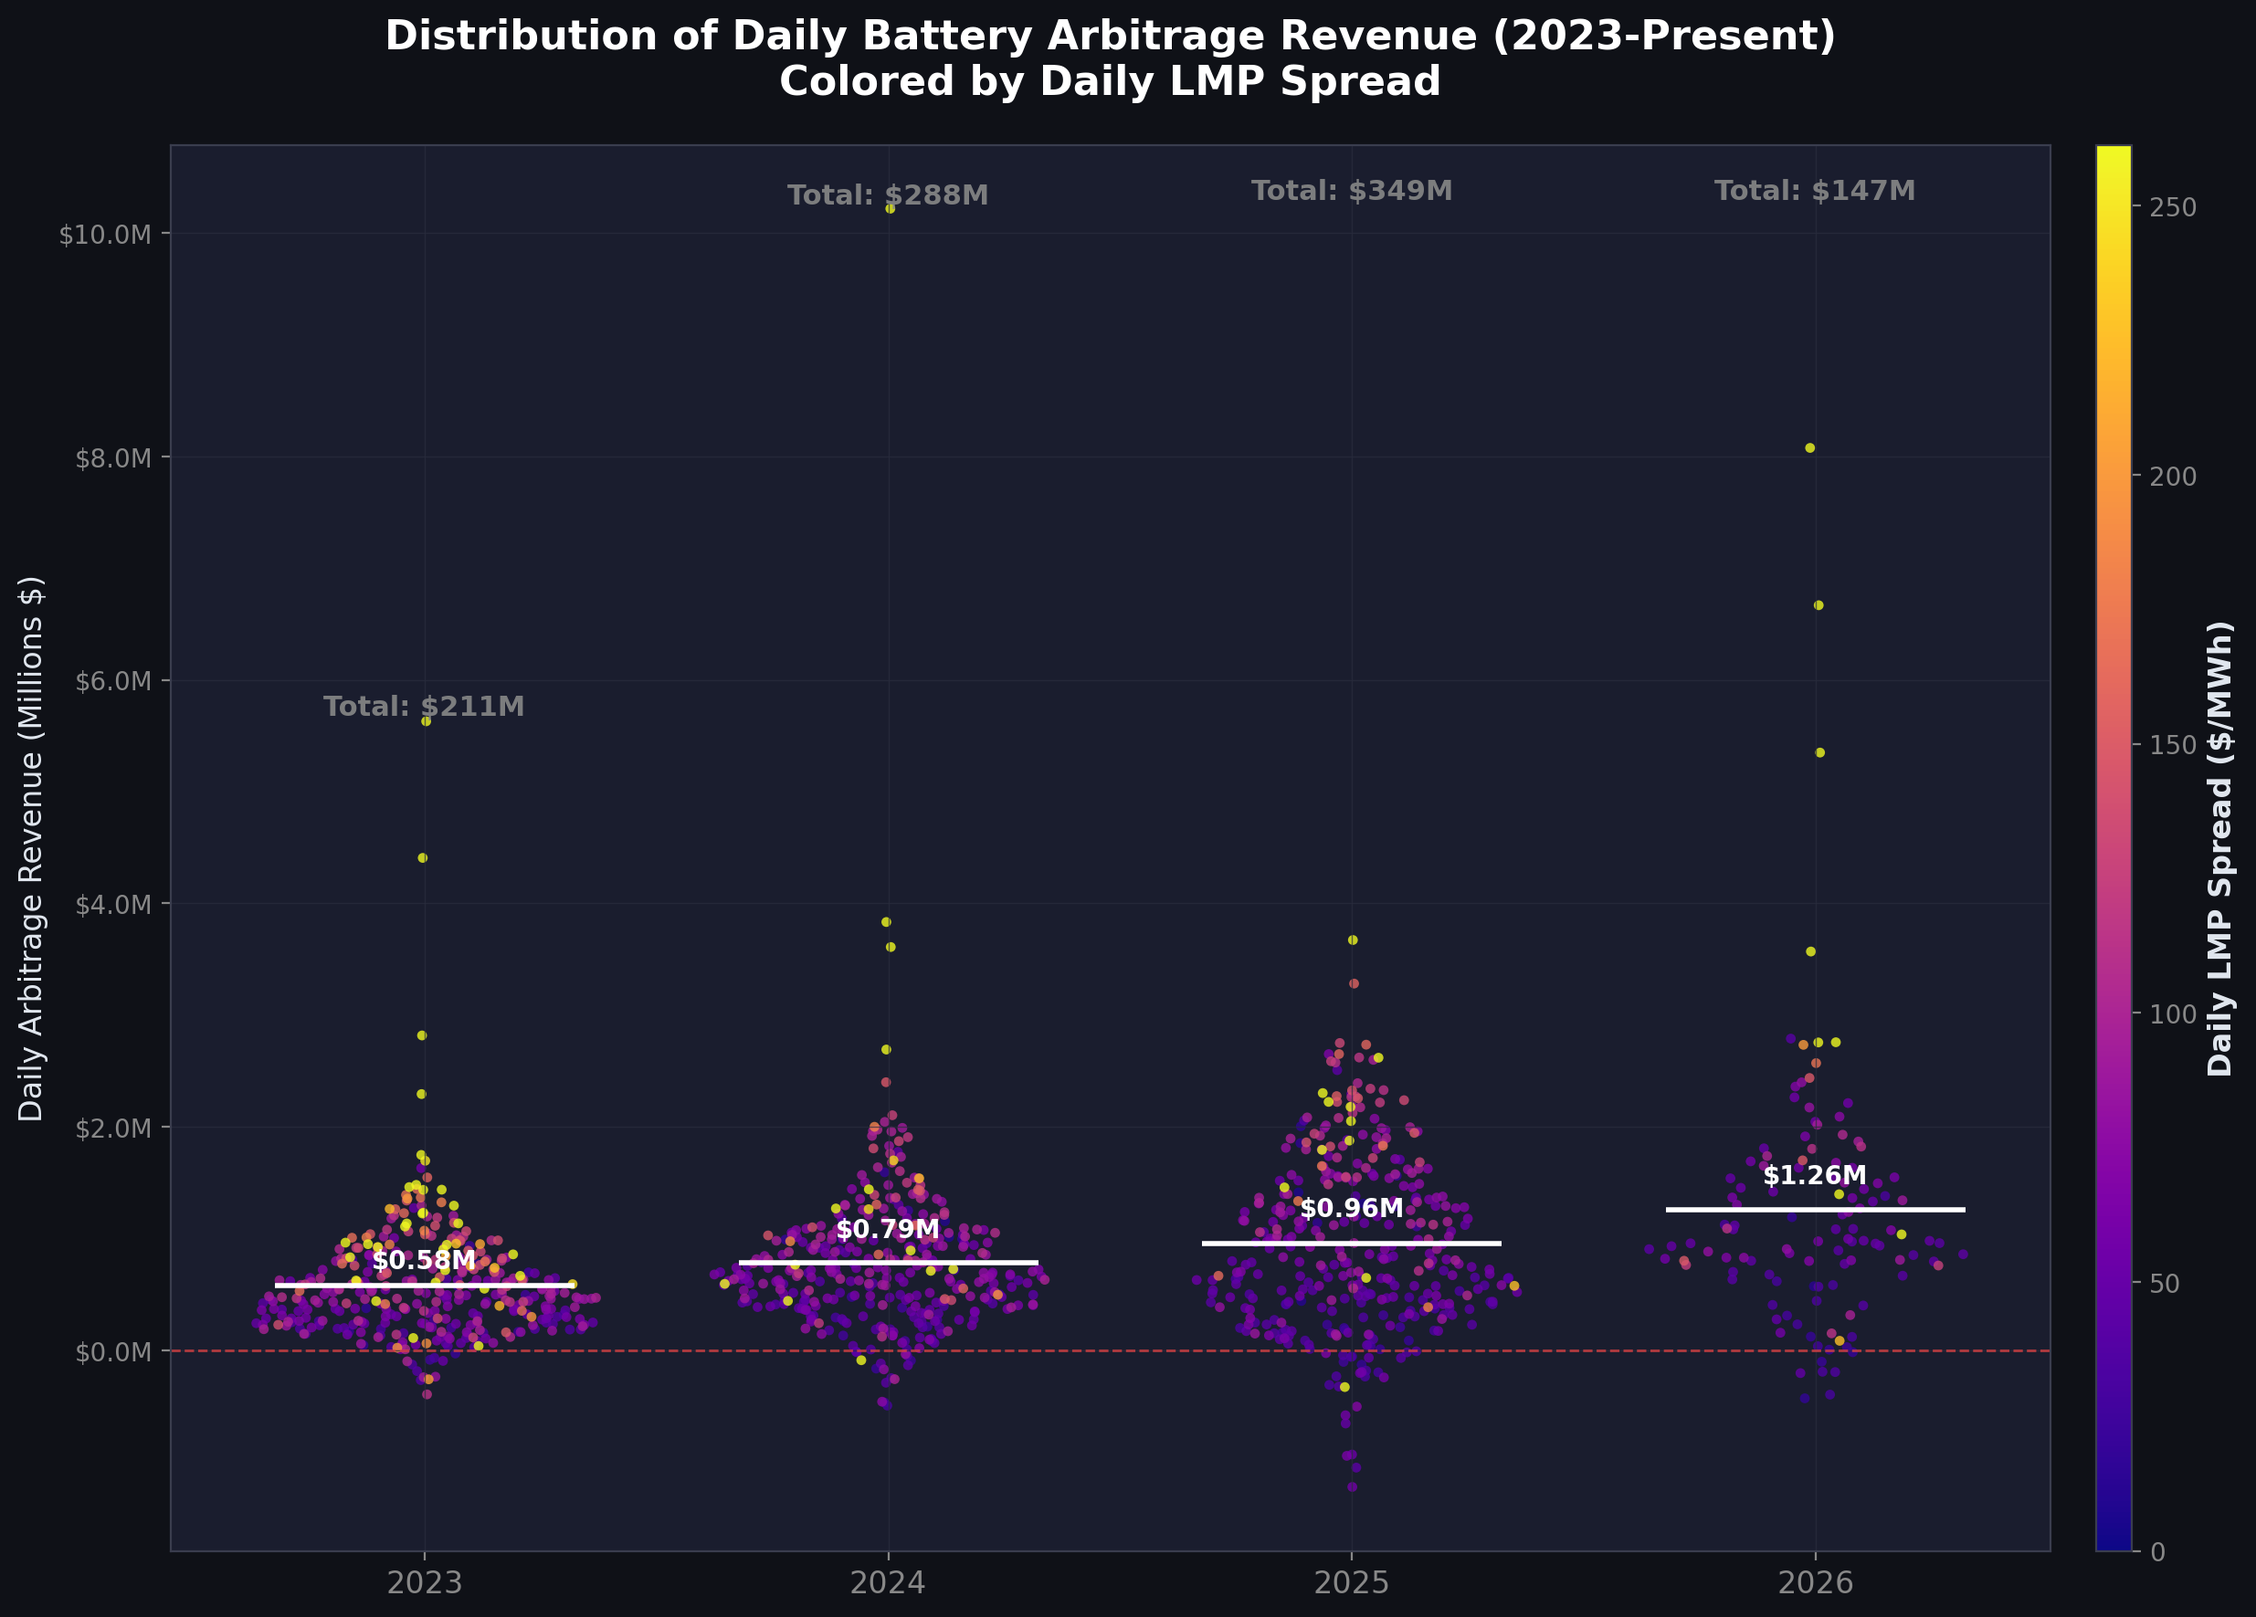
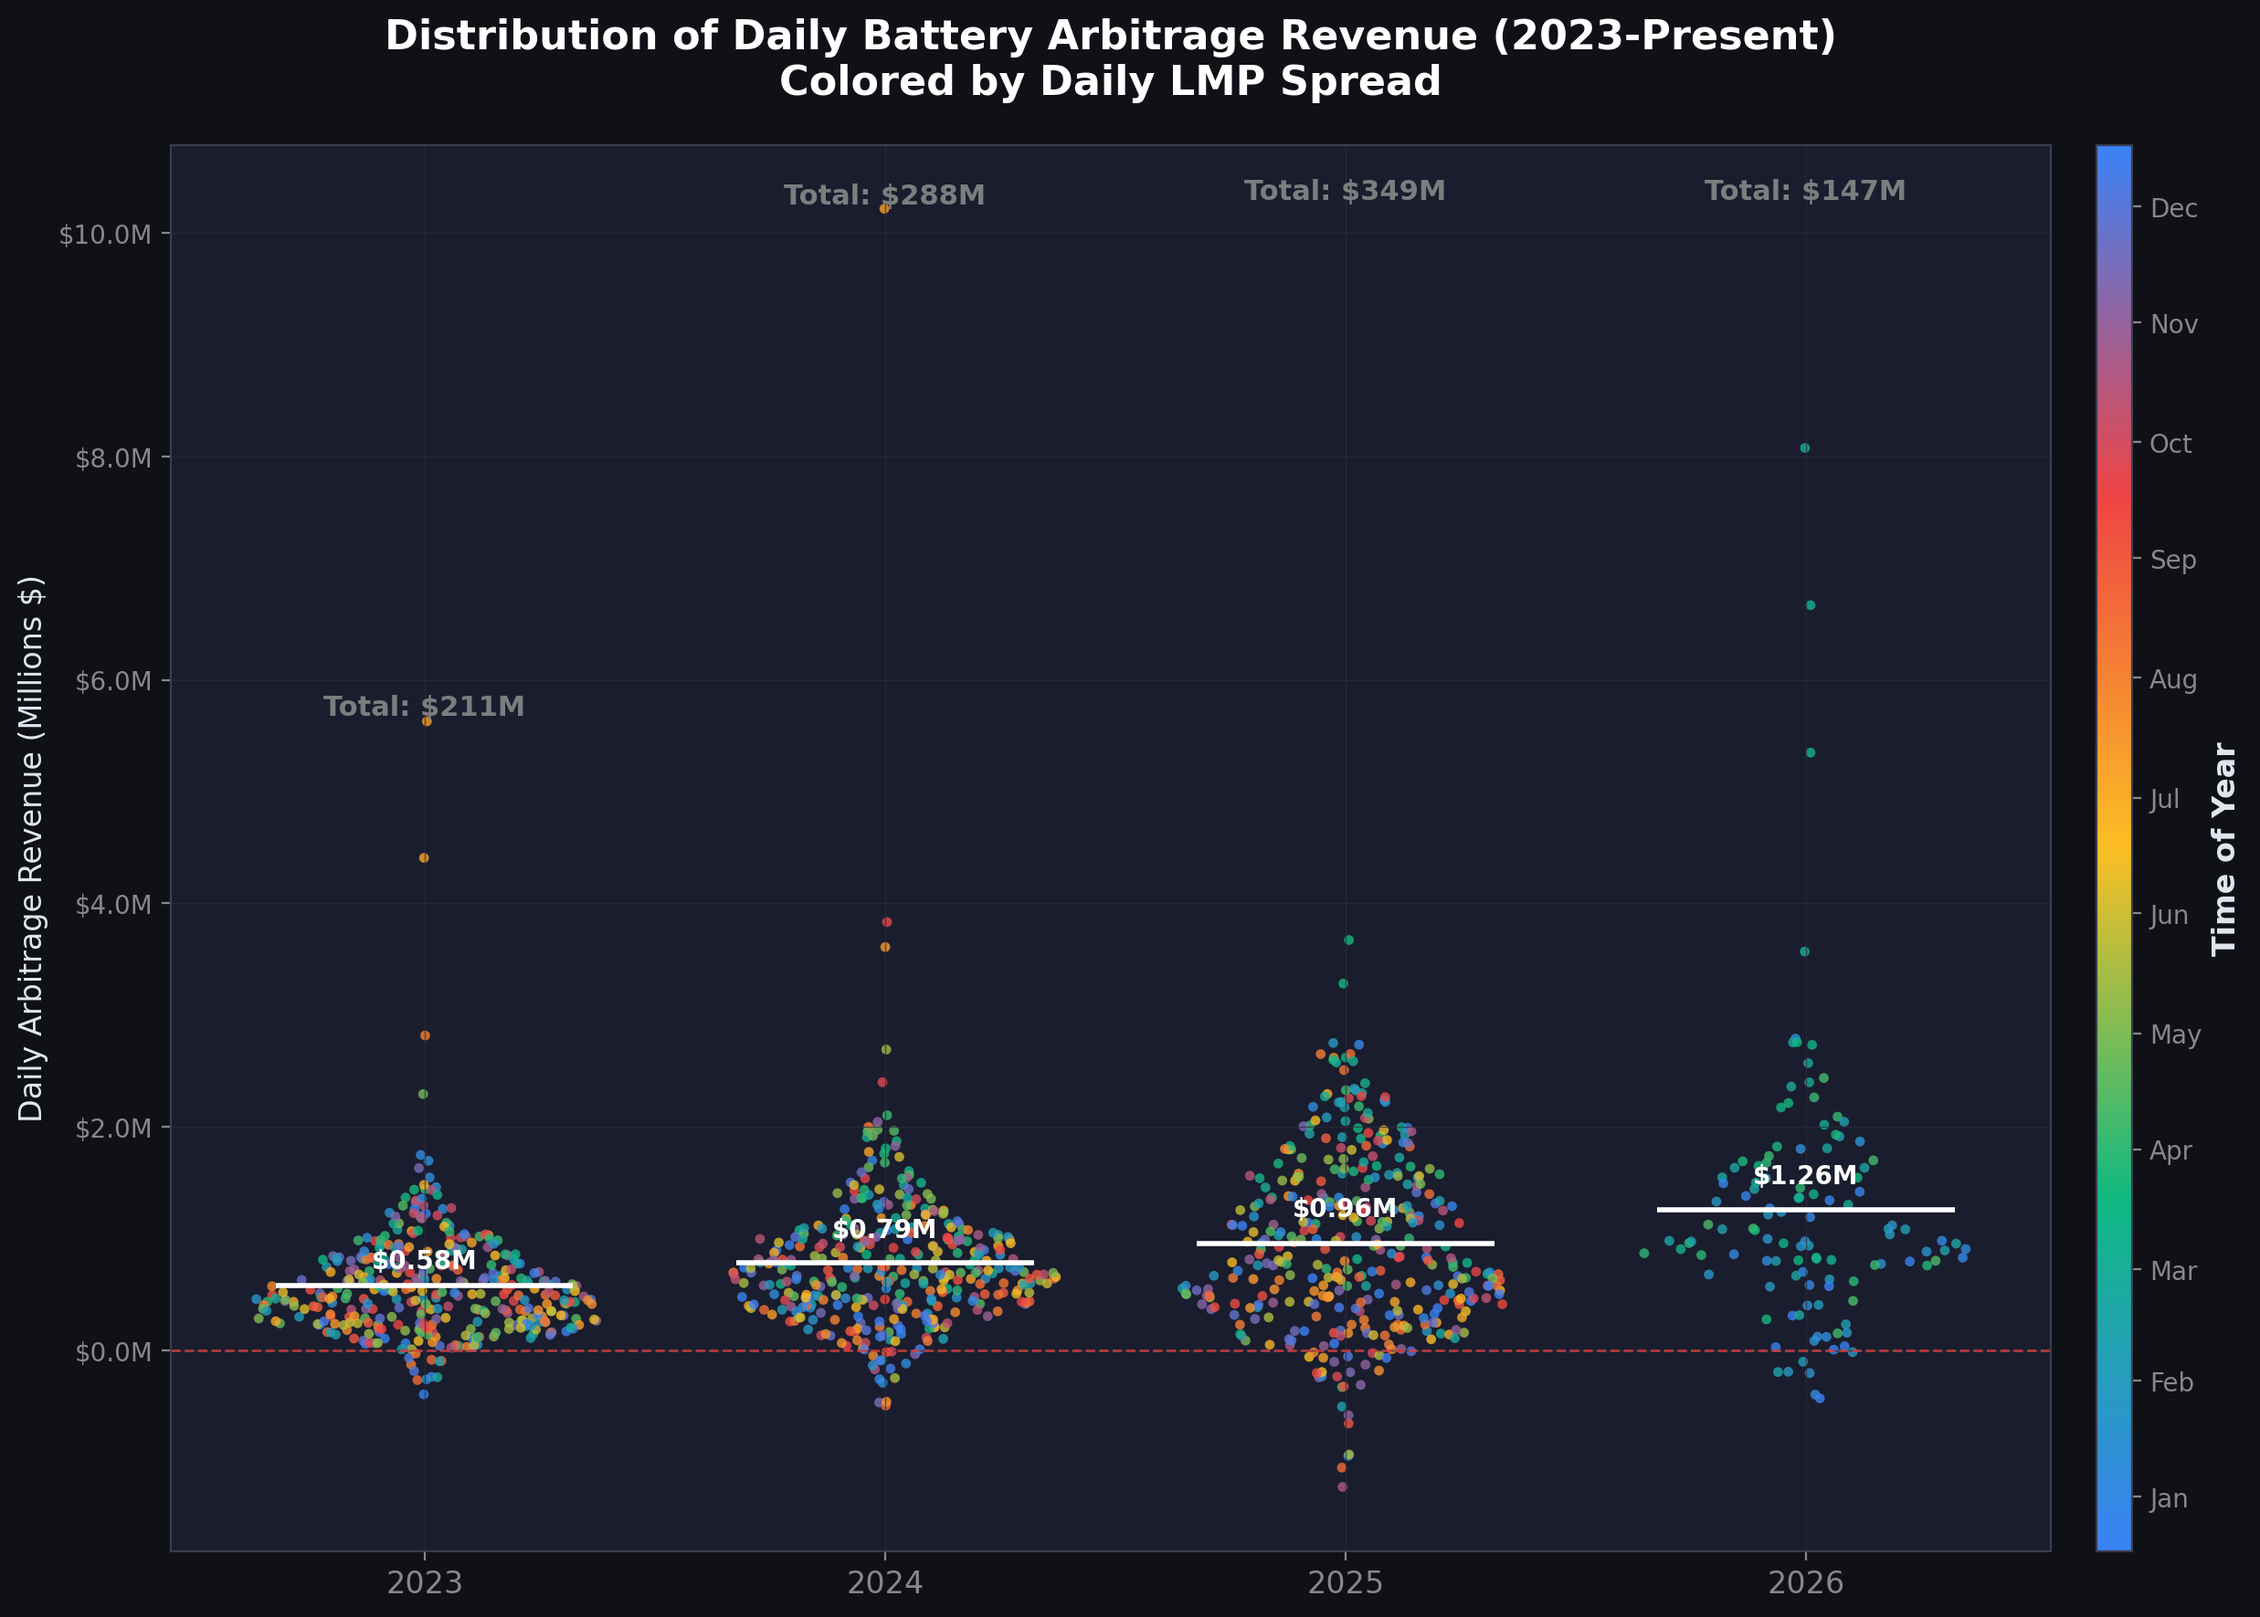
Revert color scale to Time of the Year for daily revenue chart

diff --git a/GridUtilization/plot_battery_daily_revenue.py b/GridUtilization/plot_battery_daily_revenue.py
@@ -17,6 +17,11 @@ GRID_COLOR = "#2a2d3e"
 SPINE_COLOR = "#3a3d4e"
 ACCENT_RED = "#ef4444"
 
+# Create a cyclic colormap for the seasons/months
+# Winter (Blue) -> Spring (Green) -> Summer (Orange) -> Fall (Red/Purple) -> Winter (Blue)
+season_colors = ["#3b82f6", "#10b981", "#fbbf24", "#ef4444", "#3b82f6"]
+season_cmap = mcolors.LinearSegmentedColormap.from_list("seasons", season_colors)
+
 def generate_revenue_chart(df_daily, title, filename):
     print(f"Generating chart: {filename}...")
     
@@ -32,17 +37,15 @@ def generate_revenue_chart(df_daily, title, filename):
 
     max_half_width = 0.38
     
-    # Normalize LMP spread for coloring
-    spread_max = df_daily['lmp_spread'].quantile(0.95) # Cap at 95th percentile to prevent extreme spikes washing out colors
-    norm = mcolors.Normalize(vmin=0, vmax=spread_max)
-    cmap = plt.cm.plasma
-    sm = plt.cm.ScalarMappable(cmap=cmap, norm=norm)
+    # Normalize day of year for coloring
+    norm = mcolors.Normalize(vmin=1, vmax=365)
+    sm = plt.cm.ScalarMappable(cmap=season_cmap, norm=norm)
 
     for i, yr in enumerate(years):
         year_df = df_daily[df_daily['year'] == yr].copy()
         
         revs = year_df['revenue_m'].values
-        spreads = year_df['lmp_spread'].values
+        doy = year_df['day_of_year'].values
         
         if len(revs) < 2:
             continue
@@ -71,12 +74,12 @@ def generate_revenue_chart(df_daily, title, filename):
         raw_jitter = np.random.uniform(-1, 1, size=len(revs))
         x_pos = i + raw_jitter * densities_norm * max_half_width
         
-        # Sort by spread so higher spreads are painted on top
-        sort_idx = np.argsort(spreads)
+        # Sort by day of year so later days don't blindly overlap early days
+        sort_idx = np.random.permutation(len(revs))
         
-        # Scatter plot with spread colors
-        ax.scatter(x_pos[sort_idx], revs[sort_idx], c=spreads[sort_idx],
-                    cmap=cmap, norm=norm,
+        # Scatter plot with seasonal colors
+        ax.scatter(x_pos[sort_idx], revs[sort_idx], c=doy[sort_idx],
+                    cmap=season_cmap, norm=norm,
                     s=15, alpha=0.8, edgecolors="none", rasterized=True)
 
         # Mean line
@@ -107,11 +110,15 @@ def generate_revenue_chart(df_daily, title, filename):
     ax.set_title(title, color="#fff", fontsize=16, fontweight="bold", pad=20)
     ax.axhline(0, color=ACCENT_RED, linewidth=1, linestyle="--", alpha=0.7)
 
-    # Colorbar formatted
+    # Colorbar formatted with Month names
     cbar = fig.colorbar(sm, ax=ax, orientation="vertical", pad=0.02, aspect=40)
-    cbar.set_label("Daily LMP Spread ($/MWh)", color=TEXT_COLOR, fontsize=12, fontweight="bold")
+    cbar.set_label("Time of Year", color=TEXT_COLOR, fontsize=12, fontweight="bold")
     cbar.ax.tick_params(colors="#888", labelsize=10)
     cbar.outline.set_edgecolor(SPINE_COLOR)
+    
+    # Set colorbar ticks to roughly middle of months
+    cbar.set_ticks([15, 45, 74, 105, 135, 166, 196, 227, 258, 288, 319, 349])
+    cbar.set_ticklabels(['Jan', 'Feb', 'Mar', 'Apr', 'May', 'Jun', 'Jul', 'Aug', 'Sep', 'Oct', 'Nov', 'Dec'])
 
     out_path = os.path.join(script_dir, filename)
     fig.savefig(out_path, dpi=200, facecolor=BG_OUTER, bbox_inches="tight")
@@ -135,15 +142,12 @@ def main():
     
     print("Grouping by day...")
     daily_df = df.groupby('date').agg(
-        total_revenue=('interval_revenue', 'sum'),
-        max_lmp=('lmp', 'max'),
-        min_lmp=('lmp', 'min')
+        total_revenue=('interval_revenue', 'sum')
     ).reset_index()
-    
-    daily_df['lmp_spread'] = daily_df['max_lmp'] - daily_df['min_lmp']
     
     daily_df['date'] = pd.to_datetime(daily_df['date'])
     daily_df['year'] = daily_df['date'].dt.year
+    daily_df['day_of_year'] = daily_df['date'].dt.dayofyear
     
     # Convert revenue to millions
     daily_df['revenue_m'] = daily_df['total_revenue'] / 1_000_000.0
